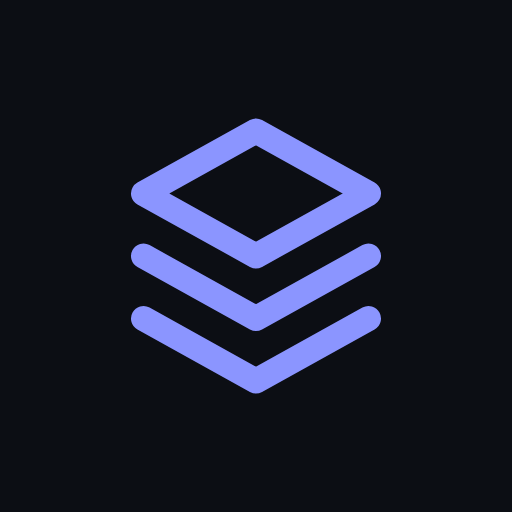
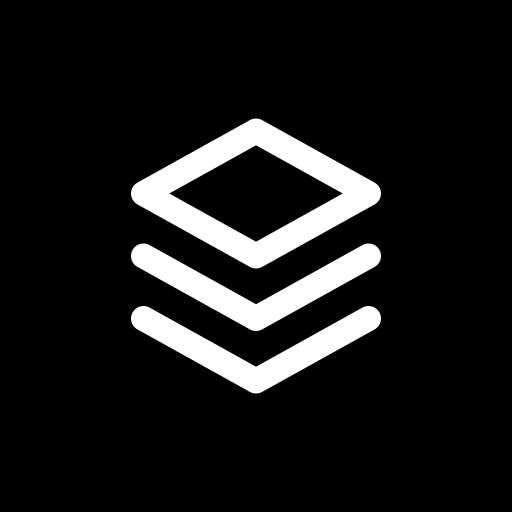
feat: refine site design and copy

Changed region(s): [[0.25, 0.2188, 0.75, 0.5312], [0.25, 0.5938, 0.75, 0.7812], [0.25, 0.4688, 0.75, 0.6562]]

diff --git a/app/page.tsx b/app/page.tsx
@@ -34,9 +34,9 @@ function Check({ className = "h-4 w-4", color = "var(--color-ok)" }: { className
 
 function Nav() {
   const links: [string, string][] = [
+    ["How it works", "#how"],
     ["Pipeline", "#pipeline"],
     ["Stacks", "#stacks"],
-    ["How it works", "#how"],
     ["Showcase", "#apps"],
   ];
   return (
@@ -80,7 +80,7 @@ function Hero() {
       <div className="mx-auto mt-14 max-w-7xl px-4 sm:mt-20 sm:px-6">
         <HeroCommand />
       </div>
-      <div data-reveal="0" className={`${WRAP} pt-20 sm:pt-28`}>
+      <div data-reveal="0" className={`${WRAP} pb-20 pt-20 sm:pb-28 sm:pt-28`}>
         <div className="flex flex-wrap items-center gap-x-8 gap-y-4 sm:justify-between sm:gap-x-10">
           {agents.map((a) => (
             <span key={a} className="text-[20px] font-medium tracking-[-0.02em] text-ink-2 sm:text-[22px]">{a}</span>
@@ -101,15 +101,15 @@ function Pipeline() {
     ["0", "Stored AWS keys"],
   ];
   return (
-    <section id="pipeline">
+    <section id="pipeline" className="border-t border-line">
       <div className={`${WRAP} py-24 sm:py-36`}>
         <h2 data-reveal="0" className="max-w-6xl text-pretty text-[28px] font-medium leading-[1.15] tracking-title text-muted sm:text-[48px] sm:leading-none">
-          <span className="text-ink">Nothing ships unproven.</span> Every change clears a spec gate, security scans, and CI on its pull request before it can merge, then deploys over OIDC and gets smoke-tested live.
+          <span className="text-ink">Nothing ships unproven.</span> Every pull request clears the spec gate, security scans, and CI before it can merge.
         </h2>
         <div data-reveal="0" className="mt-16 sm:mt-20">
           <PipelineRun />
           <p className="mt-4 text-[13px] text-faint">
-            Shown: the web template. The mobile template gates its pull requests the same way, deploys its API over OIDC on merge, and builds the app with EAS.
+            Web template shown. The mobile template ships its API the same way.
           </p>
         </div>
         <div className="mt-16 grid grid-cols-3 gap-px border-y border-line bg-line">
@@ -164,7 +164,7 @@ function Stacks() {
     ["GitHub Actions", "CI/CD", "OIDC deploys, no stored AWS keys.", "actions"],
   ];
   const alsoWired: [string, string][] = [
-    ["Auth and database", "Auth.js v5 · JWT sessions · migrations and seed data on every deploy"],
+    ["Auth and database", "Auth.js v5 · JWT sessions · migrations on deploy"],
     ["Observability", "Sentry · PostHog · ready for a key"],
     ["Validation", "Zod on every server action · typed boundaries"],
   ];
@@ -216,11 +216,11 @@ function Stacks() {
 /* How it works: five steps on a timeline */
 function How() {
   const steps: [string, string][] = [
-    ["Prompt your idea", "Describe the app to your AI coding agent and point it at the template repo."],
-    ["It scaffolds", "The agent pulls from the template and writes the app, no boilerplate, no config."],
-    ["It connects your cloud", "One setup command wires GitHub and AWS once: an OIDC role, a database, and secrets."],
-    ["CI proves it", "On the pull request, the spec gate must hit 100% and the security scans must pass before it can merge."],
-    ["It ships", "The merge deploys to AWS and the smoke test checks the live URL. Every merge after that redeploys."],
+    ["Prompt your idea", "Describe the app and point your agent at the template."],
+    ["It scaffolds", "It writes the spec first, then the code and tests."],
+    ["It connects your cloud", "One command wires GitHub and AWS: OIDC, database, secrets."],
+    ["CI proves it", "The PR can't merge until the spec gate and scans pass."],
+    ["It ships", "The merge deploys, and a smoke test checks it live."],
   ];
   return (
     <section id="how" className="border-t border-line">
@@ -292,9 +292,9 @@ export default function Page() {
       <Nav />
       <main>
         <Hero />
+        <How />
         <Pipeline />
         <Stacks />
-        <How />
         <Gallery />
         <CTA />
       </main>

diff --git a/app/content.ts b/app/content.ts
@@ -13,7 +13,9 @@ export type ShowcaseApp = {
   cat: Exclude<Category, "All">;
   tag: string;
   color: string;
+  // One sentence; the screenshot and demo carry the rest.
   note: string;
+  stack: string[];
   live: string;
   repo: string;
   shot: StaticImageData;
@@ -25,6 +27,6 @@ export type ShowcaseApp = {
 };
 
 export const APPS: ShowcaseApp[] = [
-  { name: "AI Tax Assistant Platform", cat: "Tax", tag: "AI · Tax", color: "#0ea5e9", note: "A multi-tenant AI tax assistant platform for tax officers: each department gets its own workspace with a document-grounded assistant (RAG with clickable inline citations) and a visible step trace. One observed gateway routes every call across six OpenAI and Anthropic models by deterministic rules, logging latency, tokens, and cost, with cross-provider fallback. Officers compose their own lookup, template, and calculator tools (code runs in a QuickJS WASM sandbox), prompt versions activate only past an LLM-judge eval gate, and governance-as-code enforces PII redaction, a per-call cost ceiling, and a full audit trail.", live: "https://ai-tax.soonkeong.dev", repo: "https://github.com/elleskay/ai-tax-assistant-platform", shot: irasShot, device: "browser" },
-  { name: "DriveBuddy", cat: "Mobility", tag: "AI · Mobility", color: "#c6f135", note: "AI driving companion for Singapore: an Expo app on a serverless NestJS API (Lambda + Neon Postgres). Surfaces live ERP, traffic, weather, and parking, tracks drives with background GPS and in-drive voice alerts for gantries and incidents ahead, itemizes fuel and ERP costs after every trip, and takes voice or text questions through a Claude assistant grounded in your vehicles and driving history.", live: "https://elleskay.github.io/drivebuddy/", repo: "https://github.com/elleskay/drivebuddy", shot: driveShot, device: "phone", screen: "dark" },
+  { name: "AI Tax Assistant Platform", cat: "Tax", tag: "AI · Tax", color: "#0ea5e9", note: "A governed AI assistant for tax officers: answers cited from each department's own documents, every model call routed and costed, and a full audit trail.", stack: ["RAG", "Model gateway", "Eval gate", "PII redaction"], live: "https://ai-tax.soonkeong.dev", repo: "https://github.com/elleskay/ai-tax-assistant-platform", shot: irasShot, device: "browser" },
+  { name: "DriveBuddy", cat: "Mobility", tag: "AI · Mobility", color: "#c6f135", note: "An AI driving companion for Singapore: live ERP and traffic alerts, trip costs, and a Claude co-pilot you can talk to.", stack: ["Expo", "NestJS on Lambda", "Neon Postgres"], live: "https://elleskay.github.io/drivebuddy/", repo: "https://github.com/elleskay/drivebuddy", shot: driveShot, device: "phone", screen: "dark" },
 ];

diff --git a/app/components/Gallery.tsx b/app/components/Gallery.tsx
@@ -104,7 +104,12 @@ export default function Gallery() {
                   <span className="h-2 w-2 rounded-full" style={{ background: a.color }} /> {a.tag}
                 </span>
                 <h3 className="mt-4 text-[24px] font-medium leading-tight tracking-[-0.02em]">{a.name}</h3>
-                <p className="mt-3 leading-relaxed text-muted">{a.note}</p>
+                <p className="mt-3 max-w-md leading-relaxed text-muted">{a.note}</p>
+                <div className="mt-4 flex flex-wrap gap-2">
+                  {a.stack.map((s) => (
+                    <span key={s} className="mono rounded-md border border-line px-2 py-0.5 text-[11px] text-muted">{s}</span>
+                  ))}
+                </div>
                 <div className="mt-6 flex items-center gap-4">
                   <a href={a.live} className="btn btn-invert h-9 px-4 text-[13px]">Open demo</a>
                   <a href={a.repo} className="text-[13px] text-muted transition-colors hover:text-ink">

diff --git a/app/components/HeroCommand.tsx b/app/components/HeroCommand.tsx
@@ -30,7 +30,7 @@ const MOBILE_TASKS: Task[] = [
 
 const TEMPLATES = {
   web: { name: "platform", repo: "github.com/elleskay/platform", color: "var(--color-accent)", tasks: WEB_TASKS },
-  mobile: { name: "mobile-platform", repo: "github.com/elleskay/mobile-platform", color: "var(--color-violet)", tasks: MOBILE_TASKS },
+  mobile: { name: "mobile-platform", repo: "github.com/elleskay/mobile-platform", color: "var(--color-accent-2)", tasks: MOBILE_TASKS },
 };
 type Kind = keyof typeof TEMPLATES;
 
@@ -371,7 +371,7 @@ export default function HeroCommand() {
         </div>
         <div className="mt-1.5 flex justify-between px-1 text-[11px] text-faint">
           <span>? for shortcuts</span>
-          <span className="text-violet">⏵⏵ accept edits on</span>
+          <span className="text-accent-2">⏵⏵ accept edits on</span>
         </div>
       </div>
     </div>

diff --git a/app/components/PipelineRun.tsx b/app/components/PipelineRun.tsx
@@ -109,7 +109,7 @@ function Icon({ state, className = "h-3.5 w-3.5" }: { state: State; className?: 
 // Pull request glyph: a branch feeding main, colored by where the PR stands.
 function PrIcon({ merged, className = "h-5 w-5" }: { merged: boolean; className?: string }) {
   return (
-    <svg viewBox="0 0 16 16" className={`${className} shrink-0`} fill="none" stroke={merged ? "var(--color-violet)" : "var(--color-ok)"} strokeWidth="1.5" strokeLinecap="round" strokeLinejoin="round">
+    <svg viewBox="0 0 16 16" className={`${className} shrink-0`} fill="none" stroke={merged ? "var(--color-accent-2)" : "var(--color-ok)"} strokeWidth="1.5" strokeLinecap="round" strokeLinejoin="round">
       <circle cx="4" cy="3.5" r="1.75" />
       <circle cx="4" cy="12.5" r="1.75" />
       <circle cx="12" cy="12.5" r="1.75" />

diff --git a/app/globals.css b/app/globals.css
@@ -19,8 +19,8 @@
   --color-border-strong: rgba(0, 0, 0, 0.08);
   --color-surface: rgba(0, 0, 0, 0.03);
   --color-surface-strong: rgba(0, 0, 0, 0.06);
-  --color-accent: #5e6ad2;
-  --color-violet: #9333ea;
+  --color-accent: #0b6bff;
+  --color-accent-2: #4f7d00;
   --color-ok: #27a36b;
   --color-warn: #bf8700;
   --color-claude: #c2613f;
@@ -52,8 +52,8 @@ html.theme-dark {
   --color-border-strong: rgba(255, 255, 255, 0.08);
   --color-surface: rgba(255, 255, 255, 0.05);
   --color-surface-strong: rgba(255, 255, 255, 0.09);
-  --color-accent: #828fff;
-  --color-violet: #c084fc;
+  --color-accent: #3d8eff;
+  --color-accent-2: #c6f135;
   --color-ok: #4cb782;
   --color-warn: #d29922;
   --color-claude: #d97757;

diff --git a/README.md b/README.md
@@ -45,7 +45,7 @@ The whole site is one Next.js project exported to static HTML, CSS, and JavaScri
 
 There is no database. The content is the data, held in typed arrays in the source and rendered at build time.
 
-- **App showcase**, the list of two live apps with name, category, blurb, live URL, repo URL, and screenshot.
+- **App showcase**, the list of two live apps with name, category, one-line blurb, tech tags, live URL, repo URL, and screenshot.
 - **Capability content**, the feature cards, the wired technology stacks, and the build-flow steps.
 - **Theme**, light or dark, the visitor's choice, held in browser localStorage.
 - **Selected category**, the active gallery filter, held in client state for the session.
@@ -54,10 +54,10 @@ There is no database. The content is the data, held in typed arrays in the sourc
 
 There is no API. The site is static files served over HTTP, plus file-based metadata images.
 
-The single page route serves the one statically exported HTML document at the site root, the landing page that stitches together every section (hero, pipeline, stacks, how, gallery, CTA). Because the whole site is a single page, this one route is the entire public surface a visitor ever requests.
+The single page route serves the one statically exported HTML document at the site root, the landing page that stitches together every section (hero, how, pipeline, stacks, gallery, CTA). Because the whole site is a single page, this one route is the entire public surface a visitor ever requests.
 
 ```
-GET /  -> the single exported page (hero, pipeline, stacks, how, gallery, CTA)
+GET /  -> the single exported page (hero, how, pipeline, stacks, gallery, CTA)
 ```
 
 The file-based metadata routes are images the framework emits as static files at build time from convention-named source files, one per social and icon use (Open Graph card for link unfurls, favicon for the browser tab, Twitter card for tweet previews). Each is a fixed asset on the CDN, not a function, so a request just returns the prebuilt image.
@@ -86,7 +86,7 @@ We start with content to a static page: typed arrays render to HTML at build tim
 flowchart LR
   Content[("Typed content arrays")] -->|"next build"| Build["GitHub Actions<br/>- next build<br/>- static export"]
   Build -->|"deploy on push to main"| CDN["GitHub Pages CDN"]
-  CDN -->|"GET /"| Page["Static page<br/>- hero, pipeline, stacks, how"]
+  CDN -->|"GET /"| Page["Static page<br/>- hero, how, pipeline, stacks"]
   Page -->|"render"| Hero["Hero session island<br/>- client, reduced-motion"]
 ```
 
